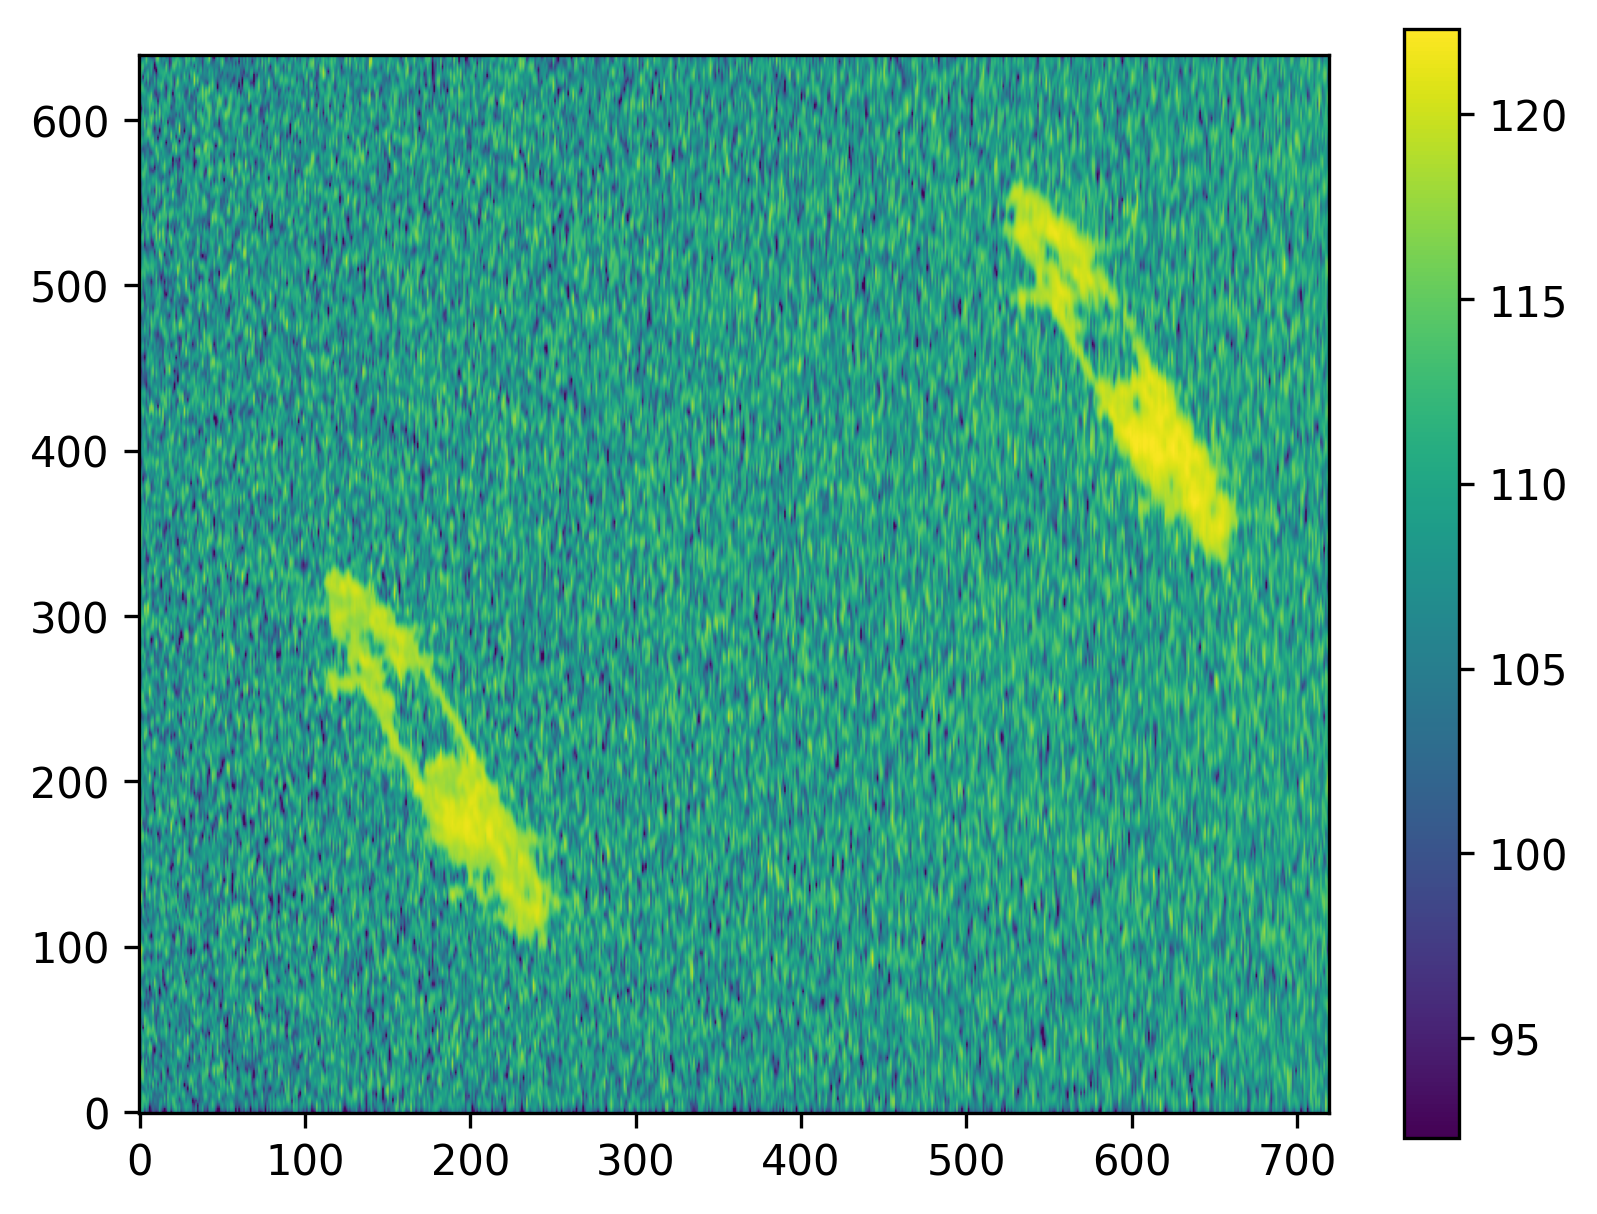
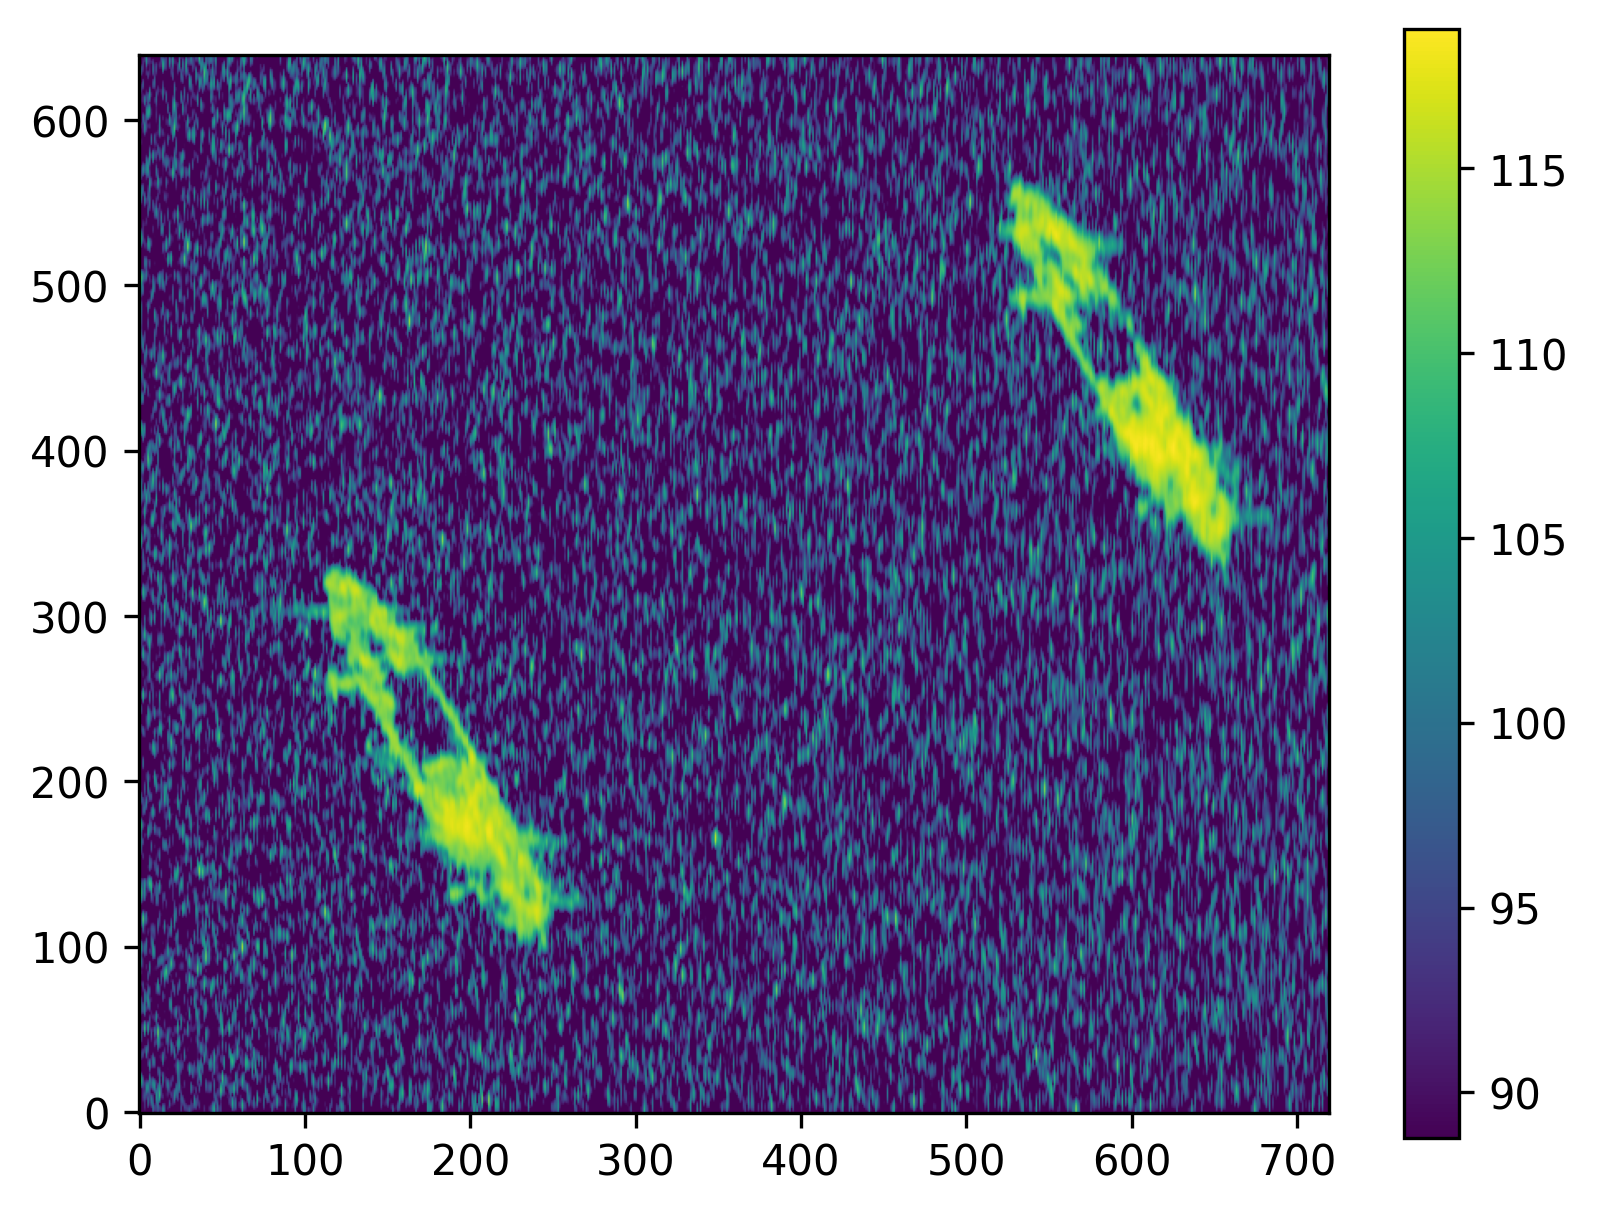
Add zero to point target to reduce time req. of echo gen.

diff --git a/document/simulation_report/performance_metrics_table.tex b/document/simulation_report/performance_metrics_table.tex
@@ -3,14 +3,14 @@
     \caption{Performance metrics.}
     \begin{tabular}{lcc}
         \toprule
-        Metric & result (threshold = 0) & result (threshold = 1e4) \\
+        Metric & result (threshold = 0) & result (threshold = $2\cdot 10^5$) \\
         \midrule
-        SSIM & 0.02064 & 0.66418 \\
-        Luminance $L$ & 0.04553 & 0.79501 \\
-        Contrast $C$ & 0.14021 & 0.72412 \\
-        Structure $S$ & 0.95948 & 0.96593 \\
-        PSNR (dB) & 5.17 & 20.61 \\
-        MSE $[0,1]$ & 0.30379 & 0.00870 \\
+        SSIM & 0.03375 & 0.87603 \\
+        Luminance $L$ & 0.08371 & 0.93476 \\
+        Contrast $C$ & 0.12280 & 0.90732 \\
+        Structure $S$ & 0.95994 & 0.97296 \\
+        PSNR (dB) & 12.96 & 22.46 \\
+        MSE $[0,1]$ & 0.05058 & 0.00567 \\
         \bottomrule
     \end{tabular}
 \end{table}

diff --git a/UmbraDataProc/generate_point_target.py b/UmbraDataProc/generate_point_target.py
@@ -285,6 +285,7 @@ class SpeckleParams:
     num_looks: int = None
     speckle_bg: float = None
     zero_threshold: float = None
+    bg_zero_prob: float = 0.5
     clip_plot: bool = False
 
 
@@ -354,7 +355,11 @@ def process_scene(
         data = np.where(bg_mask, reflectivity * speckle, reflectivity)
 
     if xp.zero_threshold is not None:
-        data = np.where(data < xp.zero_threshold, 0, data)
+        data = np.where(data < xp.zero_threshold, 0, data - xp.zero_threshold)
+
+    if bg_mask is not None and xp.bg_zero_prob is not None:
+        random_zero = np.random.random(data.shape) < xp.bg_zero_prob
+        data = np.where(bg_mask & random_zero, 0, data)
 
     save_scene(scene_name, data)
     count_zeros(data)
@@ -391,7 +396,7 @@ if __name__ == "__main__":
             method="binary", threshold=110, morph_close=True, preserve_gray=True
         ),
         speckle_params=SpeckleParams(
-            zero_threshold=120, num_looks=1, speckle_bg=120, clip_plot=True
+            zero_threshold=120, num_looks=1, speckle_bg=120, bg_zero_prob=0.7, clip_plot=True
         ),
         null_regions=[(0, 500, 0, 290)],
     )

diff --git a/TestMultiPointTarget/calc_perf_metric.py b/TestMultiPointTarget/calc_perf_metric.py
@@ -248,7 +248,7 @@ if __name__ == "__main__":
     golden_path  = "./point_target_location/tsoying_naval_base_no_speckle.json"
     result_paths = {
         "result (threshold = 0)": "./focused_image/tsoying_naval_base_mag_db.npy",
-        "result (threshold = 1e4)": "./focused_image/tsoying_naval_base_iter_0_mag_db.npy",
+        "result (threshold = $2\cdot 10^5$)": "./focused_image/tsoying_naval_base_iter_0_mag_db.npy",
     }
 
     if not os.path.exists(golden_path):

diff --git a/document/simulation_report/simulation_report.tex b/document/simulation_report/simulation_report.tex
@@ -239,7 +239,7 @@ $r_2 = 15$\,px defines the \emph{clutter zone}.
     \begin{subfigure}[b]{0.48\textwidth}
         \centering
         \includegraphics[width=\textwidth]{../../diagram/perf_metric/tsoying_naval_base/result_threshold.png}
-        \caption{Result (threshold $= 10^4$).}
+        \caption{Result (threshold $= 2 \cdot 10^5$).}
     \end{subfigure}
     \caption{CSA imaging results.}
 \end{figure}

diff --git a/src/TestMultiPointTarget.cpp b/src/TestMultiPointTarget.cpp
@@ -217,7 +217,7 @@ int main(int argc, char *argv[])
         {
             diff_csa_out = chirp_scaling_algo.apply_csa(echo_signal - chirp_scaling_algo.apply_inverse_csa(csa_out));
             csa_out = csa_out + diff_csa_out;
-            csa_out = thresholding(csa_out, 5e5);
+            csa_out = thresholding(csa_out, 2e5);
             // csa_out = thresholding(csa_out, 5e2);
             // save_mat_to_npy("./iter_result_multi_point_rng_dpl_anal/csa_out_iter_" + std::to_string(iter_idx) + ".npy", csa_out, n_row, n_col);
             save_mat_to_npy("./focused_image/tsoying_naval_base_iter_" + std::to_string(iter_idx) + ".npy", csa_out, n_row, n_col);